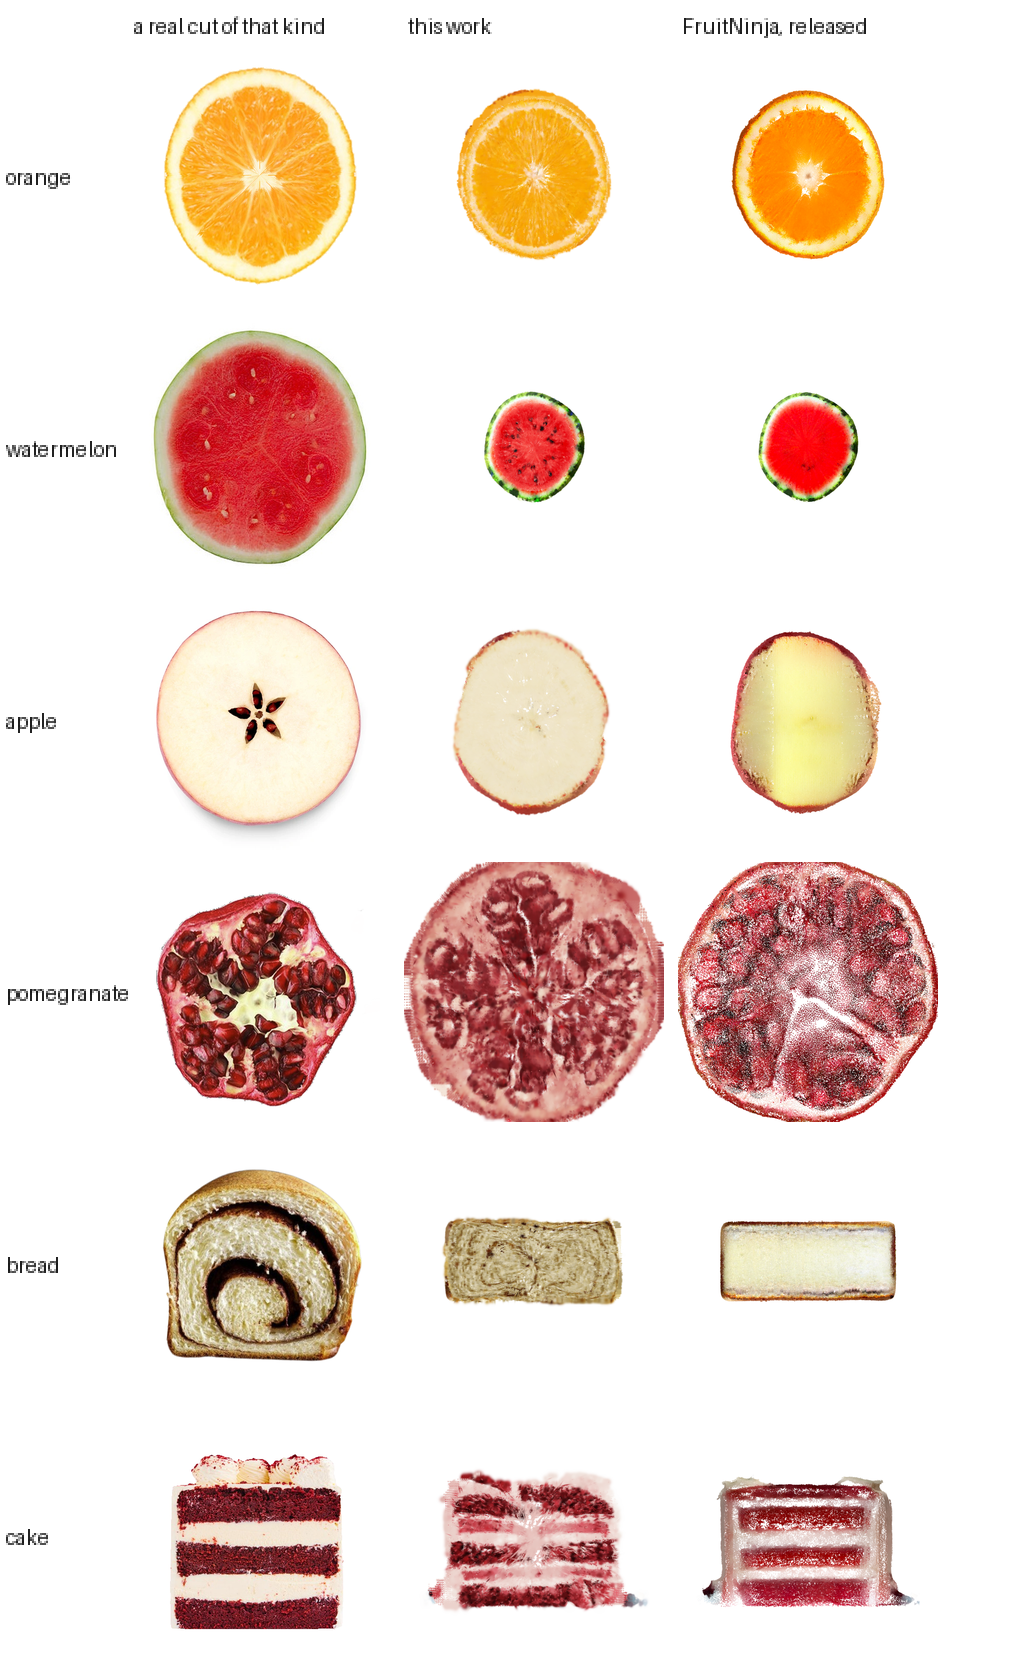
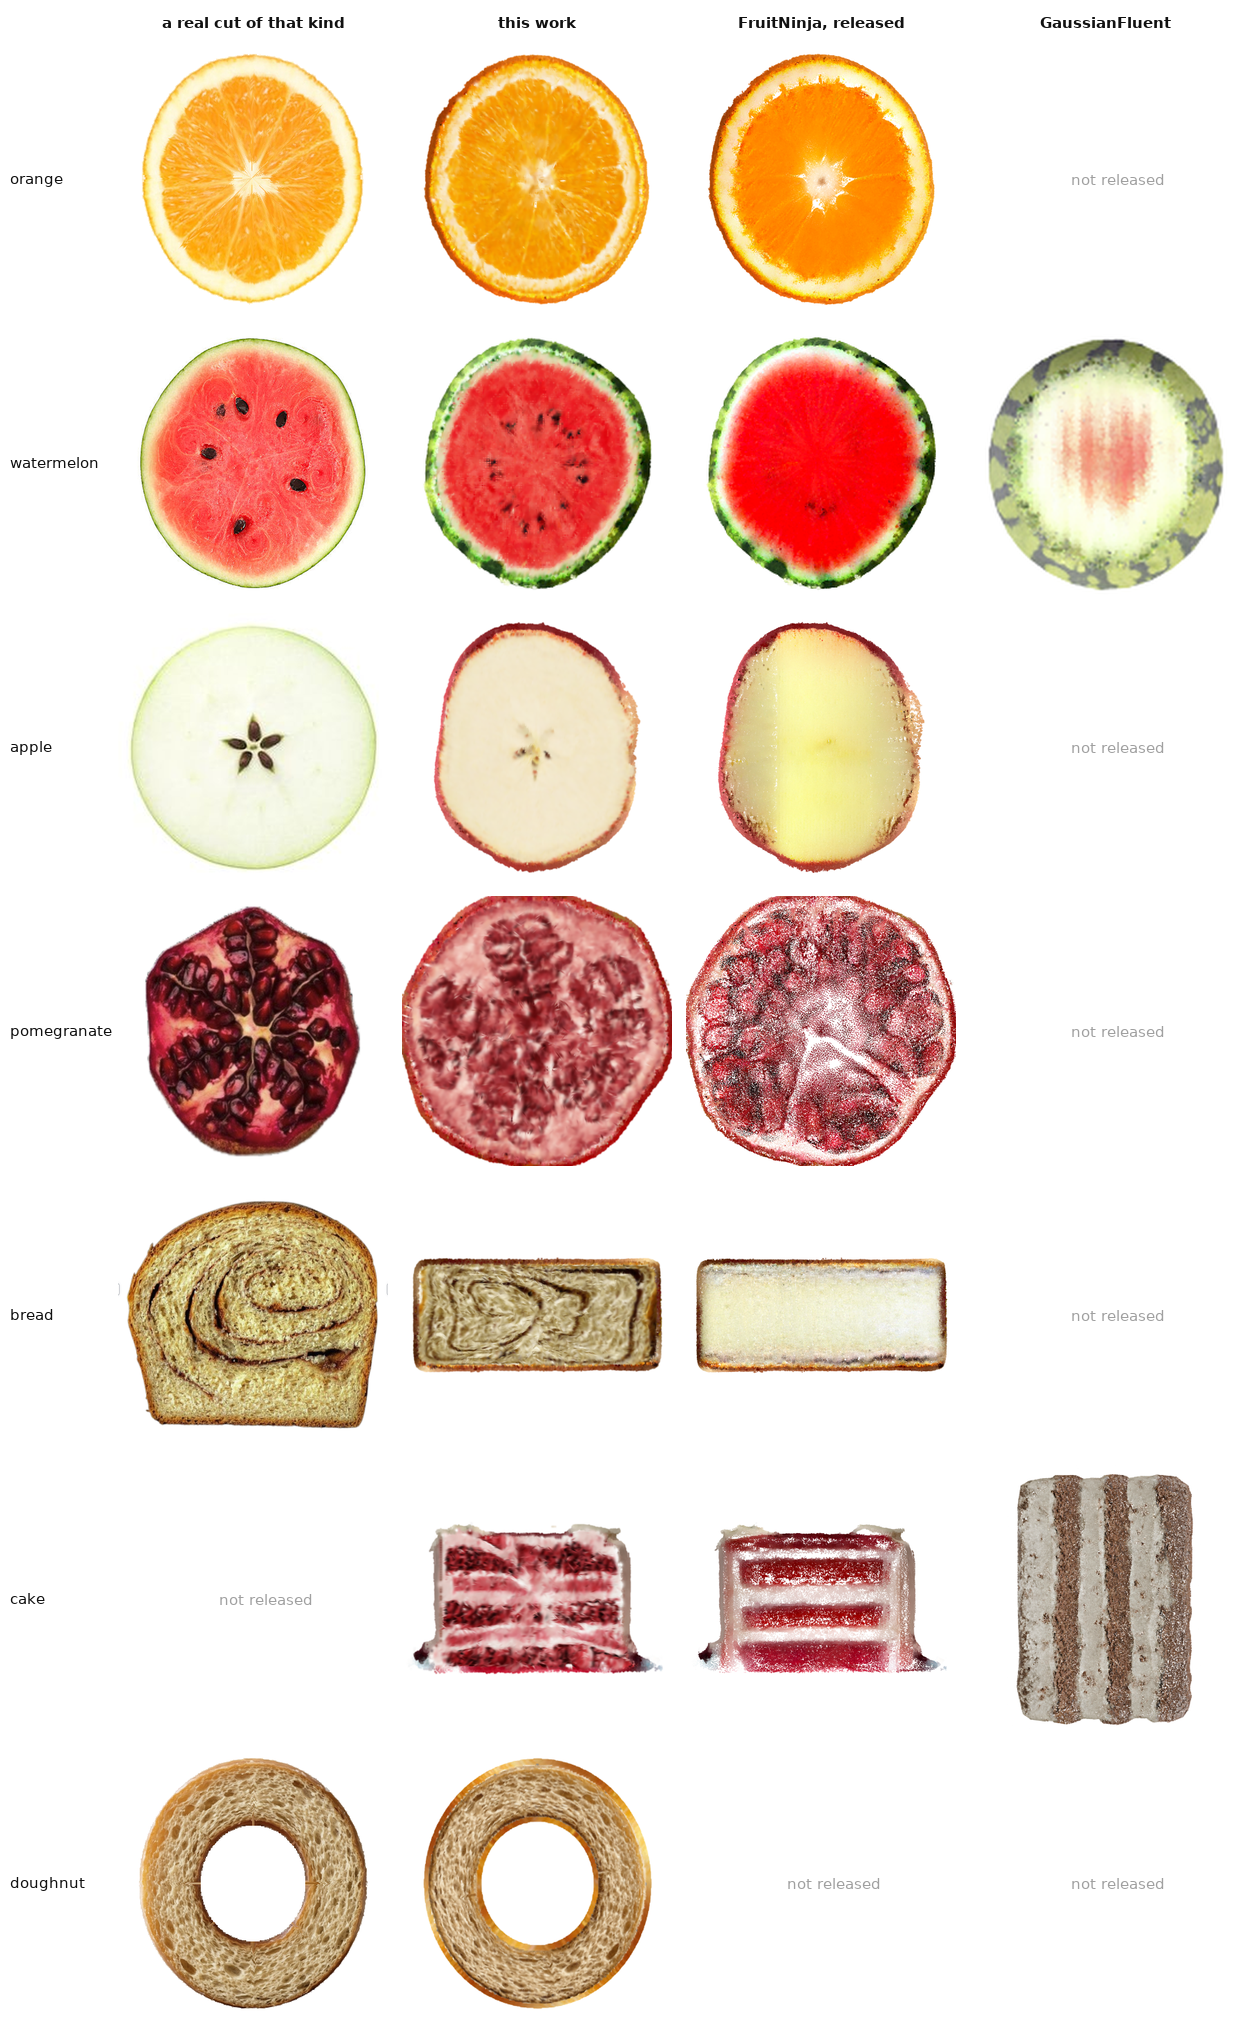
Figure 11 from this run, with the fourth arm and the doughnut
Six objects became seven and three columns became four. Every tile is from the measurement run
this page now reports -- the released models re-rendered on the same depths by the same tools,
not quoted -- and GaussianFluent's column holds the two objects of their eighteen that are also
ours. The doughnut's row has no comparison arm at all, which is the point of that row: it is the
one object whose interior owes nothing to a reconstruction.

diff --git a/index.html b/index.html
@@ -3116,13 +3116,7 @@ the structure, and the cake is the case where they do not.</p>
 <figure>
   <img src="assets/six_objects.png" alt="Six objects, one held-out plane each: a photograph of a
        real cut of that kind, this work, and the released model each was quantised from">
-  <figcaption><span class="fnum">Figure 11</span><br>Every object the prior method released, one held-out plane each, all three columns
-  rendered in one batch at the same depths and with the same settings. The left column is a
-  photograph of a real cut of that kind of thing and is not that plane, since no photograph is;
-  it is each object's own <code>EVAL_REF</code>, so the cake, the pomegranate and the apple show
-  the references after they were moved off the dark backdrop they had been shot on. The cake is
-  the row this work loses, by 0.075: its supervision is three longitudinal photographs and the
-  plane scored here is transverse, which those photographs never show.</figcaption>
+  <figcaption><span class="fnum">Figure 11</span><br>Every object, one held-out plane each, every column rendered in one batch at the same depths with the same settings and the released models re-rendered rather than quoted. The left column is a photograph of a real cut of that kind and is not that plane, since no photograph is; it is each object&#8217;s own <code>EVAL_REF</code>. GaussianFluent publishes eighteen objects and two are ours, so that column is the watermelon and the cake; the doughnut has no released model of any kind, which is why it is the one object whose interior owes nothing to a reconstruction. What the rows show is where each method spends its fidelity: the seeds and pith of the watermelon, the five-pointed core of the apple, the spiral of the loaf.</figcaption>
 </figure>
 
 <p class="mut">Every row here is in-sample: each model is scored against the photographs that
